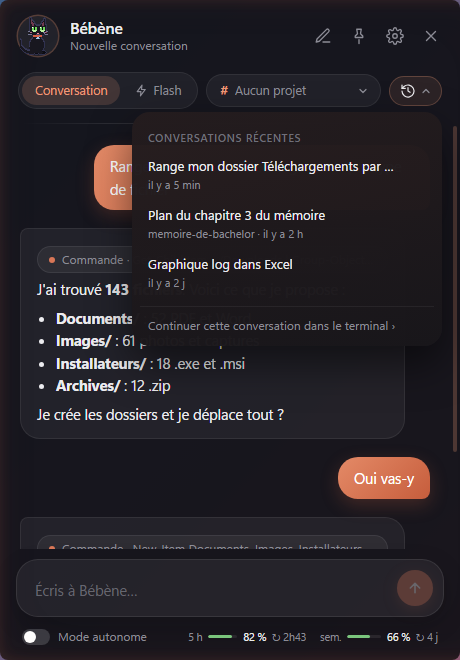
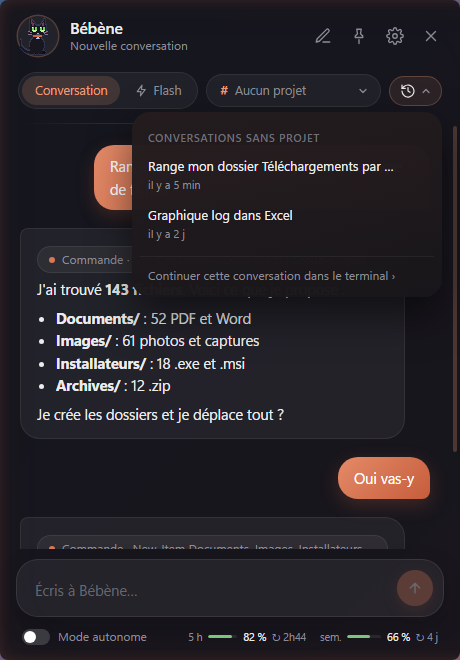
Bébène 1.31 : l'historique suit le projet en cours

Changed region(s): [[0.2739, 0.3939, 0.8522, 0.5758], [0.3043, 0.303, 0.7, 0.3636], [0.5478, 0.1818, 0.7, 0.2121]]

diff --git a/ui.html b/ui.html
@@ -311,6 +311,7 @@ textarea { min-height: 28px; }
 .q i { min-width: 26px; }
 .q em { min-width: 0; }
 .q small { font-size: 10.5px; color: var(--muted); white-space: nowrap; font-variant-numeric: tabular-nums; }
+.mitem .cnt { font-size: 11px; color: var(--muted); background: rgba(255,255,255,.06); border-radius: 999px; padding: 0 7px; flex: none; }
 </style>
 </head>
 <body>
@@ -372,7 +373,7 @@ textarea { min-height: 28px; }
       <svg width="16" height="16" viewBox="0 0 24 24" fill="none" stroke="currentColor" stroke-width="1.8" stroke-linecap="round" stroke-linejoin="round"><path d="M3 12a9 9 0 1 0 3-6.7L3 8"/><path d="M3 3v5h5"/><path d="M12 7v5l3 2"/></svg>
       <svg class="chev" width="12" height="12" viewBox="0 0 24 24" fill="none" stroke="currentColor" stroke-width="2.4" stroke-linecap="round" stroke-linejoin="round"><path d="M6 9l6 6 6-6"/></svg></button>
     <div class="ddmenu right">
-      <div class="msec">Conversations récentes</div>
+      <div class="msec" id="mConvTitle">Conversations récentes</div>
       <div id="mConvs"></div>
       <button class="mlink" id="term">Continuer cette conversation dans le terminal ›</button>
     </div>
@@ -628,14 +629,17 @@ function ago(t) {
 }
 function renderMenu() {
   $('#mProjects').innerHTML = projects.length ? projects.map(p =>
-    '<button class="mitem' + (p === project && !flash ? ' on' : '') + '" data-p="' + esc(p) + '"><span class="ic">#</span><span class="tx">' + esc(p) + '</span></button>').join('')
+    '<button class="mitem' + (p === project && !flash ? ' on' : '') + '" data-p="' + esc(p) + '"><span class="ic">#</span><span class="tx">' + esc(p) + '</span>' + (n => n ? '<small class="cnt">' + n + '</small>' : '')(convs.filter(c => c.project === p).length) + '</button>').join('')
     : '<div class="mnone">Aucun projet pour l\'instant.</div>';
   $('#mNoProj').classList.toggle('on', !project && !flash);
   $('#mProjects').querySelectorAll('[data-p]').forEach(b => b.onclick = () => newChat({ project: b.dataset.p }));
-  $('#mConvs').innerHTML = convs.length ? convs.slice(0, 15).map(c =>
+  // historique du contexte courant : dans un projet = ses conversations seulement ; sans projet = les conversations sans projet
+  const scope = flash ? '' : project, mine = convs.filter(c => (c.project || '') === scope);
+  $('#mConvTitle').textContent = scope ? 'Conversations · ' + scope : 'Conversations sans projet';
+  $('#mConvs').innerHTML = mine.length ? mine.slice(0, 20).map(c =>
     '<div class="mitem conv' + (conv && c.id === conv.id ? ' on' : '') + '" data-c="' + c.id + '"><span class="tx">' + esc(c.title || 'Conversation')
-    + '<small>' + (c.project ? esc(c.project) + ' · ' : '') + ago(c.updated) + '</small></span><button class="del" data-del="' + c.id + '" title="Supprimer">×</button></div>').join('')
-    : '<div class="mnone">Pas encore de conversation.</div>';
+    + '<small>' + ago(c.updated) + '</small></span><button class="del" data-del="' + c.id + '" title="Supprimer">×</button></div>').join('')
+    : '<div class="mnone">' + (scope ? 'Pas encore de conversation dans ce projet.' : 'Pas encore de conversation.') + '</div>';
   $('#mConvs').querySelectorAll('[data-c]').forEach(el => el.onclick = e => {
     if (e.target.dataset.del) { e.stopPropagation(); convs = convs.filter(c => c.id !== e.target.dataset.del); if (conv && conv.id === e.target.dataset.del) conv = null; persist(); renderMenu(); return; }
     const c = convs.find(x => x.id === el.dataset.c); if (c) openConv(c);

diff --git a/Companion.cs b/Companion.cs
@@ -19,10 +19,10 @@ using Microsoft.Web.WebView2.WinForms;
 
 [assembly: System.Reflection.AssemblyTitle("Bébène")]
 [assembly: System.Reflection.AssemblyProduct("Bébène")]
-[assembly: System.Reflection.AssemblyVersion("1.30.0.0")]
+[assembly: System.Reflection.AssemblyVersion("1.31.0.0")]
 
 static class Program {
-    public const string Version = "1.30";
+    public const string Version = "1.31";
     public static bool OpenSetup;   // --setup : ouvrir directement l'assistant d'installation
 
     // ---- Diagnostic : journal + détection des blocages de l'interface ----

diff --git a/NOTES.md b/NOTES.md
@@ -2,7 +2,7 @@
 
 Compagnon de bureau Windows : un chat noir animé, et une fenêtre de discussion qui passe par Claude Code (`claude -p`).
 
-## État (2026-11-20) : v1.30 (état « ready » du chat : réponse arrivée discussion fermée → yeux plissés, bulle « ! », saut + cœur toutes les 3,5 s jusqu à l ouverture ; test --readytest ; dépôt GitHub documenté (README, docs/ARCHITECTURE.md, docs/MISE-A-JOUR.md, images) ; publier-version.ps1 + « Publier sur GitHub.cmd » = build + commit/push + Release avec zip et nouveautés de fonctions.json) — v1.29 (discussion redessinée : en-tête aéré nom + sous-titre, barre de choix = interrupteur Conversation/Flash + menus dépliants # Projet et Historique ; fond à 90 % opaque ; fenêtre 460×660 ; quota dans le pied avec compte à rebours ↻ recalculé toutes les 30 s, fenêtre écoulée = 100 % + nouvelle mesure (message quotaprobe) ; en-tête glissable (message drag → WM_NCLBUTTONDOWN), volets Layered glissables (Moved) ; retour à la place d origine à la fermeture sauf si épinglée ; flèches = double chevron orange avec halo, sans fond, visibles dans --sidepreview) — v1.28 (export retiré de l app → creer-paquet.ps1 ; gardien anti auto-modification testé : écriture et commande bloquées même en mode autonome ; test : --guardtest out.txt) — v1.27 (assistant d installation : Setup.Check() 11 étapes, Setup.Do() actions dans des PowerShell visibles, Setup.Export() → ClaudeHub/installeur/Bebene-<v>.zip avec hub-modele et LISEZMOI ; ouverture auto si lancé hors %USERPROFILE%ClaudeCompanion ou sans compte ; --setup ; PATH relu du registre (Util.FreshPath) : corrige RTK introuvable dans les sessions Bébène ; test : --setuptest out.txt) — v1.26 (réglages en sections dépliables, ordre par fréquence d usage : Lancer → Examens/RDV → Alertes → Claude → Fonctions → Compagnon → Calendriers → Mails → Système ; sections ouvertes mémorisées) — oreilles un peu réduites et asymétriques, nouvelle action « lick » = toilette du corps, pose LICK), v1.25 (oreilles plus grandes, poisson sur le collier, bâillement pendant l étirement, animations se gratter / se frotter + ronron, caresse = frottement ; en-tête de discussion sans bande orange ; catalogue fonctions.json affiché dans les réglages ; icône renommée bebene.ico pour forcer le cache Windows), v1.24 (examens/RDV ajoutés à la main (ManualEvents) ou retirés avec × (HiddenEvents), section « Mes examens et rendez-vous » dans les réglages ; yeux = sprite 5×6 sur positions entières ; test : --manualtest cal.ics out.txt), v1.23 (icône = Bébène pixel art 32×32 sans fond, généré par assets/make-icon.ps1 ; ICO : tailles < 256 en bitmap 32 bits (les PNG étaient mal lus par .NET), 256 en PNG ; raccourci avec IconLocation ; chat tenu = pendule autour de la peau du cou + étirement + pattes en retard ; clic ailleurs ferme la discussion sauf si épinglée (📌, Pinned) ; test : --swingtest out.png), v1.22 (rappels d examens/RDV : carte au-dessus du chat la veille à 18 h et 1 h avant, OK / Ne plus me rappeler, réglages RemindExam/RemindRdv/RemindWhen, déjà-vus dans rappels.txt ; test : --remindtest cal.ics out.png), v1.21 (réglages > Alertes : AutoAllow = outils autorisés sans carte d accord, ajoutés à --allowedTools ; v1.20.1 message Outlook classique clarifié), v1.20 (revue : fenêtre active dans le message et non le prompt système (cache), réponse si envoi pendant que Claude travaille, stockage local plein géré, Outlook refermé s il a été lancé par Bébène, volets déplacés sans être redessinés, code mort du panneau retiré côté C#), v1.19 (skill ClaudeHub piloter-applis : COM / CLI / UI Automation pour toutes les applis ; consigne réduite à un renvoi), v1.18 (autorisations valables pour toute la conversation ; Claude reçoit le titre de la fenêtre utilisée juste avant ; consigne Office = COM sur le fichier ouvert), v1.17 (quota lu par une mini-requête silencieuse au démarrage, à l ouverture (max 1/5 min) et toutes les 15 min : claude -p haiku --setting-sources "" --tools "" --no-session-persistence ; Post passe par le WebView si la fenêtre n a pas de handle), v1.16 (barre de quota sous l en-tête : session 5 h + semaine, lue dans rate_limit_event du stream-json, mise en cache ; yeux verts), v1.15 (coins au rayon natif Win11 = 8 px, un seul contour DWM orange discret, fondu orange uniquement sur les bords, centre neutre), v1.14 (habillage v3 : tout arrondi, fondu orange sur les bords, teintes chaudes ; test : --paneltest out.png affiche la vraie fenêtre sans prendre le clavier), v1.13 (discussion redessinée : bulles, en-tête avec contexte, menu sobre Nouvelle / Flash / Projets / Conversations ; conversations multiples en localStorage ; projet = dossier de travail projets/<nom> donc archivage auto ; Flash = rien enregistré, transcription effacée ; aperçu : Edge headless avec stub.js), v1.12 (lecture des mails 6 mois, locale : Gmail IMAP + mot de passe d application chiffré DPAPI, Outlook classique via COM ; extraction date/heure/lieu par regex ; volet droit séparé Examens / Rendez-vous, ✉ = trouvé dans un mail ; test : --mailtest dossier_eml out.txt), v1.11 (volets latéraux natifs transparents : flèche gauche = calendrier, flèche droite = cartes examens/RDV ; DashCal/DashUp ; test : --sidepreview test.ics out.png), v1.10 (fenêtre de discussion en verre acrylique Win11 : DwmExtendFrame + DWMWA_SYSTEMBACKDROP_TYPE=3, WebView2 fond transparent ; bouton calendrier = menu à 2 interrupteurs DashCal / DashUp), v1.9 (tableau de bord calendrier dans la discussion : abonnements iCal/webcal ou .ics local, RRULE simples, examens/RDV par mots-clés + filtre de lieu ; test : --caltest out.json), v1.8 (correcteur : croix rouges posées sur les mots via UI Automation TextPattern, clic = suggestions, correction tapée touche par touche avec délai car le nouveau Bloc-notes perd les rafales SendInput ; UIA/COM sur un thread à part ; test : --spelldemo "texte"), v1.7.1 (corrige le gel : Sleep() s appelait elle-même ; journal %LOCALAPPDATA%ClaudeCompanionbebene.log + watchdog qui enregistre la pile si l interface bloque >3 s), v1.7 (tout en 8 bits ; correcteur d orthographe global : hook clavier LL, ISpellChecker Windows fr-CH, bulle non activante, SendInput ; test : --spelltest), v1.6 ( Alt+Espace, persona avec accès ClaudeHub), v1.5 (rendu en résolution Px, yeux mignons, 4 poses de sommeil, `--preview <png>` génère la planche des poses), v1.4 option Caveman, v1.3 : chat en pixel art (procédural) : marche, course, toilette, étirement, sommeil, chasse la souris, caresses, attrapé puis lâché, queue physique
+## État (2026-11-20) : v1.31 (historique filtré par projet : dans un projet = ses conversations, sans projet = conversations sans projet ; compteur par projet dans le menu #) — v1.30 (état « ready » du chat : réponse arrivée discussion fermée → yeux plissés, bulle « ! », saut + cœur toutes les 3,5 s jusqu à l ouverture ; test --readytest ; dépôt GitHub documenté (README, docs/ARCHITECTURE.md, docs/MISE-A-JOUR.md, images) ; publier-version.ps1 + « Publier sur GitHub.cmd » = build + commit/push + Release avec zip et nouveautés de fonctions.json) — v1.29 (discussion redessinée : en-tête aéré nom + sous-titre, barre de choix = interrupteur Conversation/Flash + menus dépliants # Projet et Historique ; fond à 90 % opaque ; fenêtre 460×660 ; quota dans le pied avec compte à rebours ↻ recalculé toutes les 30 s, fenêtre écoulée = 100 % + nouvelle mesure (message quotaprobe) ; en-tête glissable (message drag → WM_NCLBUTTONDOWN), volets Layered glissables (Moved) ; retour à la place d origine à la fermeture sauf si épinglée ; flèches = double chevron orange avec halo, sans fond, visibles dans --sidepreview) — v1.28 (export retiré de l app → creer-paquet.ps1 ; gardien anti auto-modification testé : écriture et commande bloquées même en mode autonome ; test : --guardtest out.txt) — v1.27 (assistant d installation : Setup.Check() 11 étapes, Setup.Do() actions dans des PowerShell visibles, Setup.Export() → ClaudeHub/installeur/Bebene-<v>.zip avec hub-modele et LISEZMOI ; ouverture auto si lancé hors %USERPROFILE%ClaudeCompanion ou sans compte ; --setup ; PATH relu du registre (Util.FreshPath) : corrige RTK introuvable dans les sessions Bébène ; test : --setuptest out.txt) — v1.26 (réglages en sections dépliables, ordre par fréquence d usage : Lancer → Examens/RDV → Alertes → Claude → Fonctions → Compagnon → Calendriers → Mails → Système ; sections ouvertes mémorisées) — oreilles un peu réduites et asymétriques, nouvelle action « lick » = toilette du corps, pose LICK), v1.25 (oreilles plus grandes, poisson sur le collier, bâillement pendant l étirement, animations se gratter / se frotter + ronron, caresse = frottement ; en-tête de discussion sans bande orange ; catalogue fonctions.json affiché dans les réglages ; icône renommée bebene.ico pour forcer le cache Windows), v1.24 (examens/RDV ajoutés à la main (ManualEvents) ou retirés avec × (HiddenEvents), section « Mes examens et rendez-vous » dans les réglages ; yeux = sprite 5×6 sur positions entières ; test : --manualtest cal.ics out.txt), v1.23 (icône = Bébène pixel art 32×32 sans fond, généré par assets/make-icon.ps1 ; ICO : tailles < 256 en bitmap 32 bits (les PNG étaient mal lus par .NET), 256 en PNG ; raccourci avec IconLocation ; chat tenu = pendule autour de la peau du cou + étirement + pattes en retard ; clic ailleurs ferme la discussion sauf si épinglée (📌, Pinned) ; test : --swingtest out.png), v1.22 (rappels d examens/RDV : carte au-dessus du chat la veille à 18 h et 1 h avant, OK / Ne plus me rappeler, réglages RemindExam/RemindRdv/RemindWhen, déjà-vus dans rappels.txt ; test : --remindtest cal.ics out.png), v1.21 (réglages > Alertes : AutoAllow = outils autorisés sans carte d accord, ajoutés à --allowedTools ; v1.20.1 message Outlook classique clarifié), v1.20 (revue : fenêtre active dans le message et non le prompt système (cache), réponse si envoi pendant que Claude travaille, stockage local plein géré, Outlook refermé s il a été lancé par Bébène, volets déplacés sans être redessinés, code mort du panneau retiré côté C#), v1.19 (skill ClaudeHub piloter-applis : COM / CLI / UI Automation pour toutes les applis ; consigne réduite à un renvoi), v1.18 (autorisations valables pour toute la conversation ; Claude reçoit le titre de la fenêtre utilisée juste avant ; consigne Office = COM sur le fichier ouvert), v1.17 (quota lu par une mini-requête silencieuse au démarrage, à l ouverture (max 1/5 min) et toutes les 15 min : claude -p haiku --setting-sources "" --tools "" --no-session-persistence ; Post passe par le WebView si la fenêtre n a pas de handle), v1.16 (barre de quota sous l en-tête : session 5 h + semaine, lue dans rate_limit_event du stream-json, mise en cache ; yeux verts), v1.15 (coins au rayon natif Win11 = 8 px, un seul contour DWM orange discret, fondu orange uniquement sur les bords, centre neutre), v1.14 (habillage v3 : tout arrondi, fondu orange sur les bords, teintes chaudes ; test : --paneltest out.png affiche la vraie fenêtre sans prendre le clavier), v1.13 (discussion redessinée : bulles, en-tête avec contexte, menu sobre Nouvelle / Flash / Projets / Conversations ; conversations multiples en localStorage ; projet = dossier de travail projets/<nom> donc archivage auto ; Flash = rien enregistré, transcription effacée ; aperçu : Edge headless avec stub.js), v1.12 (lecture des mails 6 mois, locale : Gmail IMAP + mot de passe d application chiffré DPAPI, Outlook classique via COM ; extraction date/heure/lieu par regex ; volet droit séparé Examens / Rendez-vous, ✉ = trouvé dans un mail ; test : --mailtest dossier_eml out.txt), v1.11 (volets latéraux natifs transparents : flèche gauche = calendrier, flèche droite = cartes examens/RDV ; DashCal/DashUp ; test : --sidepreview test.ics out.png), v1.10 (fenêtre de discussion en verre acrylique Win11 : DwmExtendFrame + DWMWA_SYSTEMBACKDROP_TYPE=3, WebView2 fond transparent ; bouton calendrier = menu à 2 interrupteurs DashCal / DashUp), v1.9 (tableau de bord calendrier dans la discussion : abonnements iCal/webcal ou .ics local, RRULE simples, examens/RDV par mots-clés + filtre de lieu ; test : --caltest out.json), v1.8 (correcteur : croix rouges posées sur les mots via UI Automation TextPattern, clic = suggestions, correction tapée touche par touche avec délai car le nouveau Bloc-notes perd les rafales SendInput ; UIA/COM sur un thread à part ; test : --spelldemo "texte"), v1.7.1 (corrige le gel : Sleep() s appelait elle-même ; journal %LOCALAPPDATA%ClaudeCompanionbebene.log + watchdog qui enregistre la pile si l interface bloque >3 s), v1.7 (tout en 8 bits ; correcteur d orthographe global : hook clavier LL, ISpellChecker Windows fr-CH, bulle non activante, SendInput ; test : --spelltest), v1.6 ( Alt+Espace, persona avec accès ClaudeHub), v1.5 (rendu en résolution Px, yeux mignons, 4 poses de sommeil, `--preview <png>` génère la planche des poses), v1.4 option Caveman, v1.3 : chat en pixel art (procédural) : marche, course, toilette, étirement, sommeil, chasse la souris, caresses, attrapé puis lâché, queue physique
 - Chat animé (fenêtre transparente GDI+) : il suit la souris, cligne des yeux, réfléchit et saute de joie à la fin. On peut le glisser et y déposer des fichiers.
 - Discussion (WebView2, `ui.html`) : markdown, étiquettes d'outils, détail des changements, autorisation avant les commandes (`permission_denials` → `--allowedTools`), mode autonome (`bypassPermissions`), reprise de session (`--resume`).
 - Centre de contrôle (`settings.html`) : nom, taille, affichage, premier plan, modèle, instructions personnalisées, démarrage auto, lancement de Claude Code (nouvelle session ou reprise de celle du chat).

diff --git a/README.md b/README.md
@@ -72,13 +72,15 @@ Clic sur le chat, **Alt + Espace** ou **Ctrl + Alt + C** : la discussion s'ouvre
 |---|---|
 | **Conversation \| ⚡ Flash** | interrupteur. *Conversation* = enregistrée dans l'historique. *Flash* = question rapide qui n'est enregistrée **nulle part** (ni historique, ni archive, et la transcription de Claude Code est effacée). |
 | **# Projet ▾** | travailler dans un projet ClaudeHub : Claude travaille dans `ClaudeHub/projets/<nom>/` et la conversation y est **archivée automatiquement**. On peut créer un projet directement depuis le menu, ou choisir n'importe quel autre dossier. |
-| **🕘 Historique ▾** | les 15 dernières conversations (titre, projet, il y a combien de temps), × pour en supprimer une, et « Continuer dans le terminal » pour reprendre la même conversation dans Claude Code. |
+| **🕘 Historique ▾** | l'historique **du contexte en cours** : dans un projet, uniquement les conversations de ce projet ; sans projet, uniquement les conversations sans projet. × pour en supprimer une, « Continuer dans le terminal » pour reprendre la conversation dans Claude Code. |
 
 <p align="center">
   <img src="docs/images/discussion-projets.png" width="300" alt="Menu des projets">
   &nbsp;
-  <img src="docs/images/discussion-hist.png" width="300" alt="Historique des conversations">
+  <img src="docs/images/discussion-hist-projet.png" width="300" alt="Historique d'un projet">
 </p>
+
+> Un **projet** rassemble toutes les conversations d'un même sujet. Le menu **#** affiche combien de conversations chaque projet contient ; une fois dans un projet, l'historique ne montre que les siennes.
 
 **Le mode Flash** change la couleur de la zone de saisie (pointillés dorés) pour qu'on ne l'oublie pas :
 
